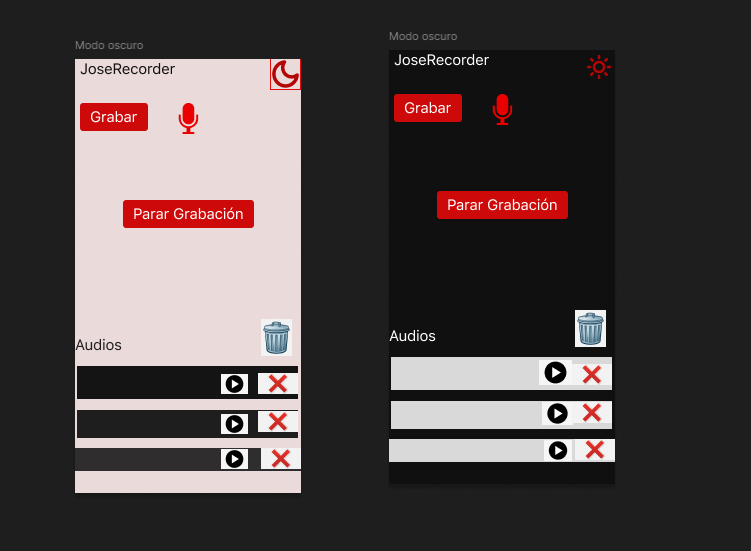
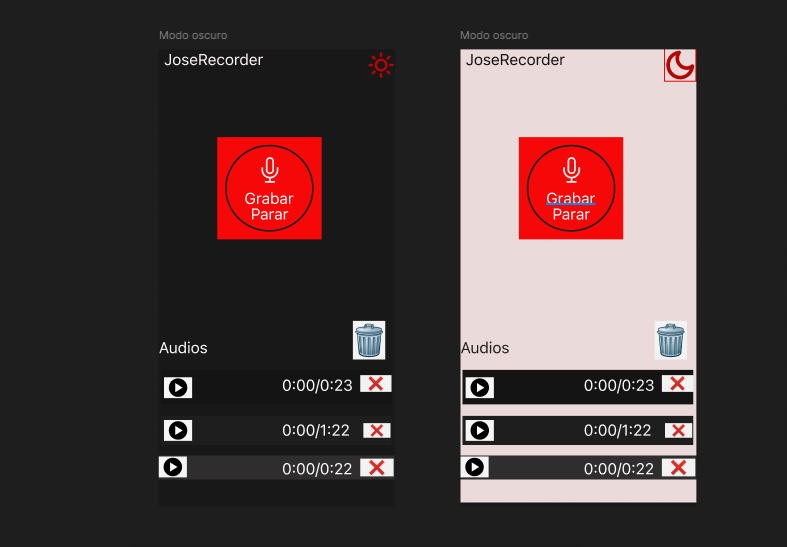
docs: corregido el diseño de figma

diff --git a/docs/RESPUESTA2.md b/docs/RESPUESTA2.md
@@ -2,4 +2,9 @@
 
 ## Pantalla
 
-![Captura de pantalla de diseño implementado]()
+![Captura de pantalla de diseño implementado](../assets/Diseño_implementado.jpg)
+
+## ¿Qué hemos hecho para que tenga ese diseño?
+
+Para realizar este diseño en react native, hemos hecho uso de las etiquetas View para simular
+los contenedores
